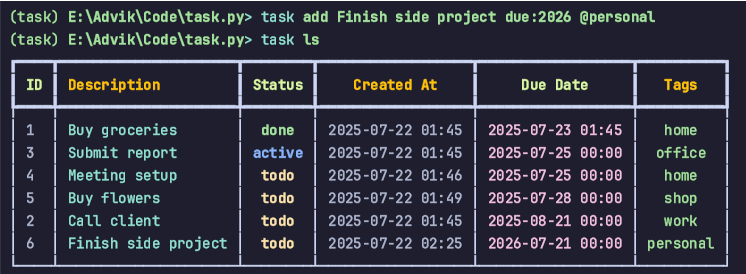
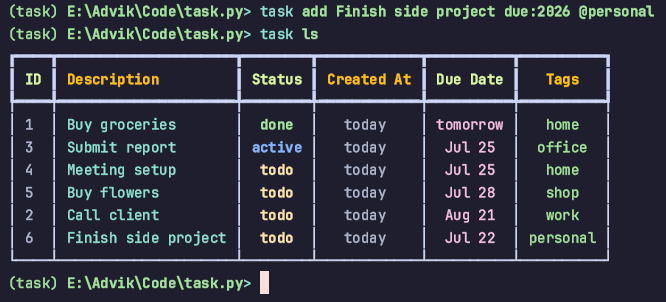
feat(cli): relative dates

diff --git a/task_tracker/helpers.py b/task_tracker/helpers.py
@@ -3,6 +3,8 @@ from datetime import datetime
 from typing import Iterable
 
 import dateparser
+import humanize
+import tzlocal
 from rich.console import Console
 from rich.table import Table
 from rich.text import Text
@@ -42,7 +44,14 @@ def print_tasks(tasks: Iterable[tuple[TaskID, Task]]) -> None:
     """
     console = Console()
     if not tasks:
-        console.print(Text("No tasks found.", justify="center", style="italic red"))
+        console.print(
+            Text(
+                "No tasks found. Add a task using `task add`",
+                justify="center",
+                style="italic red",
+            )
+        )
+        return
 
     table = Table(
         # title="[bold blue]Task List[/bold blue]",
@@ -57,10 +66,6 @@ def print_tasks(tasks: Iterable[tuple[TaskID, Task]]) -> None:
     table.add_column("[#FFC300]Tags[/]", justify="center", style="green")
 
     for task_id, task in tasks:
-        created_at_str = task.created_at.strftime("%Y-%m-%d %H:%M")
-        due_date_str = (
-            task.due_date.strftime("%Y-%m-%d %H:%M") if task.due_date else "N/A"
-        )
         status_style = {
             ProgressStatus.TODO: "bold yellow",
             ProgressStatus.ACTIVE: "bold blue",
@@ -68,12 +73,12 @@ def print_tasks(tasks: Iterable[tuple[TaskID, Task]]) -> None:
         }.get(task.status, "white")
 
         table.add_row(
-            str(task_id),
+            task_id,
             task.description,
             Text(task.status.value, style=status_style),
-            created_at_str,
-            due_date_str,
-            ", ".join(task.tags)
+            humanize.naturalday(task.created_at),
+            humanize.naturalday(task.due_date) if task.due_date else "N/A",
+            ", ".join(task.tags),
         )
 
     console.print(table)

diff --git a/task_tracker/cli.py b/task_tracker/cli.py
@@ -12,7 +12,7 @@ from task_tracker import (
 from task_tracker.helpers import print_tasks, sort_by_due_date, task_parser
 from task_tracker.plugins.json import JsonStorage, TaskStorageProtocol
 
-DEFAULT_JSON_FILE = Path() / "tasks.json"
+DEFAULT_JSON_FILE = Path().home() / "tasks.json"
 app = typer.Typer(no_args_is_help=True)
 
 
@@ -41,7 +41,7 @@ def list_tasks(ctx: typer.Context):
 
 @app.command("add")
 def create_task(task: list[str], ctx: typer.Context):
-    """"Add a new task."""
+    """Add a new task."""
     with ctx.obj.store as store:
         store.create_task(task_parser(task))
 

diff --git a/README.md b/README.md
@@ -3,6 +3,11 @@ Manage your tasks. Anytime. Anywhere.
 
 <img src="screenshot.png" width="100%">
 
+
+## Supported Plugins
+### JSON
+Task.py comes with a json plugin which stores the tasks in ~/tasks.json file.
+
 ## Quickstart
 
 ### Installing
